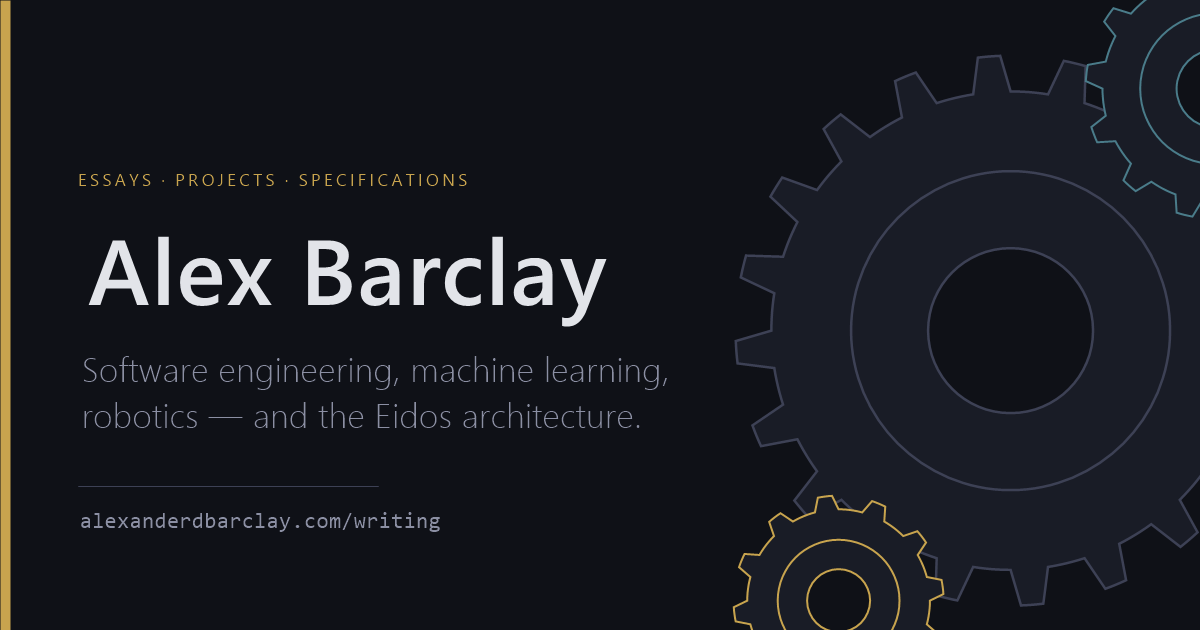
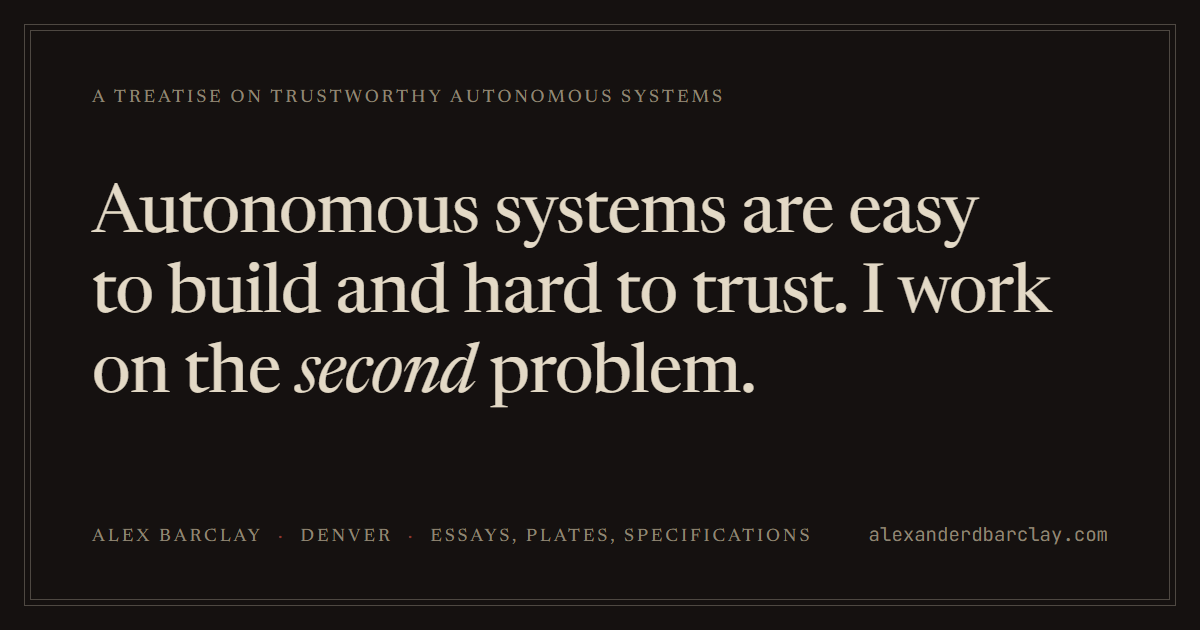
feat: give each essay its own share card, and redraw the site's
Every /writing/ page unfurled to one image: the retired gear motif over a
description the rewritten about page no longer supports.

scripts/share-cards.mjs draws a card for the site from claims.yaml's
thesis and one for each published essay from its title and a new optional
`tagline`, using the site's own fonts and tokens. An essay page now points
its og:image at its own card; every other page keeps the site's.

The PNGs are committed rather than built, since CI has no browser. A test
fails if a published essay has no card on disk, so a forgotten
`npm run cards` stops a deploy instead of unfurling to a 404.

SITE.description is rewritten to match. It is also the feed's description.

diff --git a/src/content.config.ts b/src/content.config.ts
@@ -27,6 +27,8 @@ const blog = defineCollection({
     title: z.string().min(1),
     date: z.coerce.date(),
     excerpt: z.string().min(1),
+    // One line for the essay's share card, where the excerpt is too long to set.
+    tagline: z.string().min(1).optional(),
     category: z.enum(CATEGORIES),
     tags: z.array(z.string()),
     // Absent means published. Only an explicit `true` withholds a post.

diff --git a/content/blog/2026-08-10-eidos-an-architecture-for-cheap-code.md b/content/blog/2026-08-10-eidos-an-architecture-for-cheap-code.md
@@ -2,6 +2,7 @@
 title: "Eidos: An Architecture for Cheap Code"
 date: 2026-08-10
 excerpt: "For fifty years, software architecture has argued about where the boundaries should go, on the shared premise that a human's attention is the scarce resource. That premise no longer holds."
+tagline: "Humans design the Forms, agents fill them, fitness functions verify the fit."
 category: software
 tags: ["architecture", "ai", "philosophy"]
 ---
